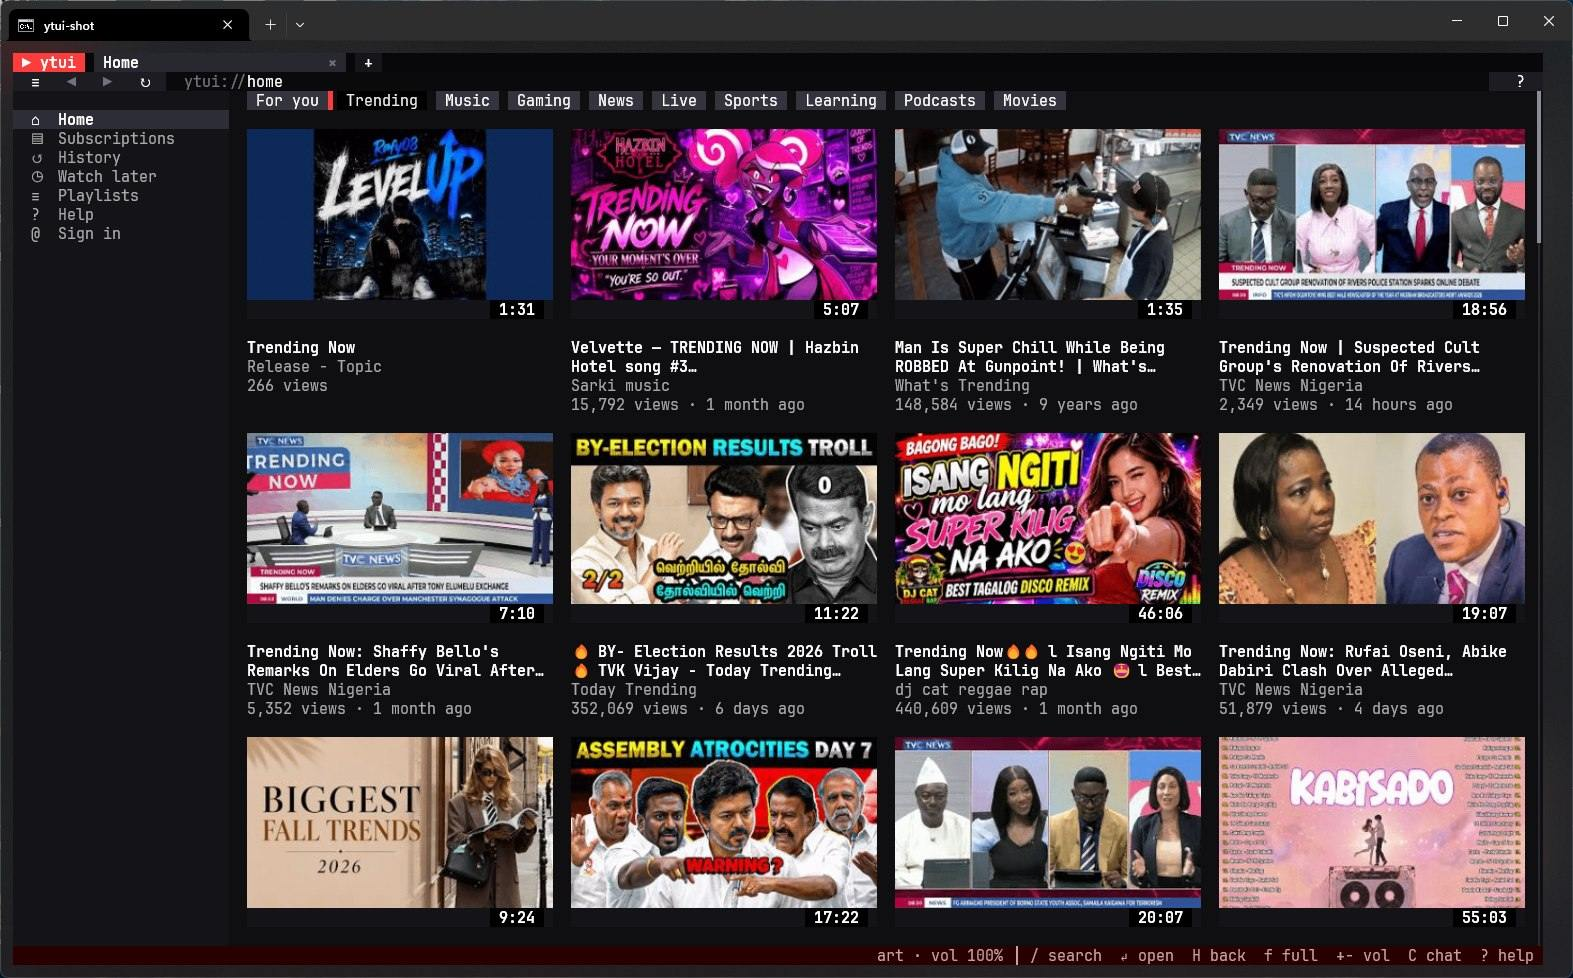
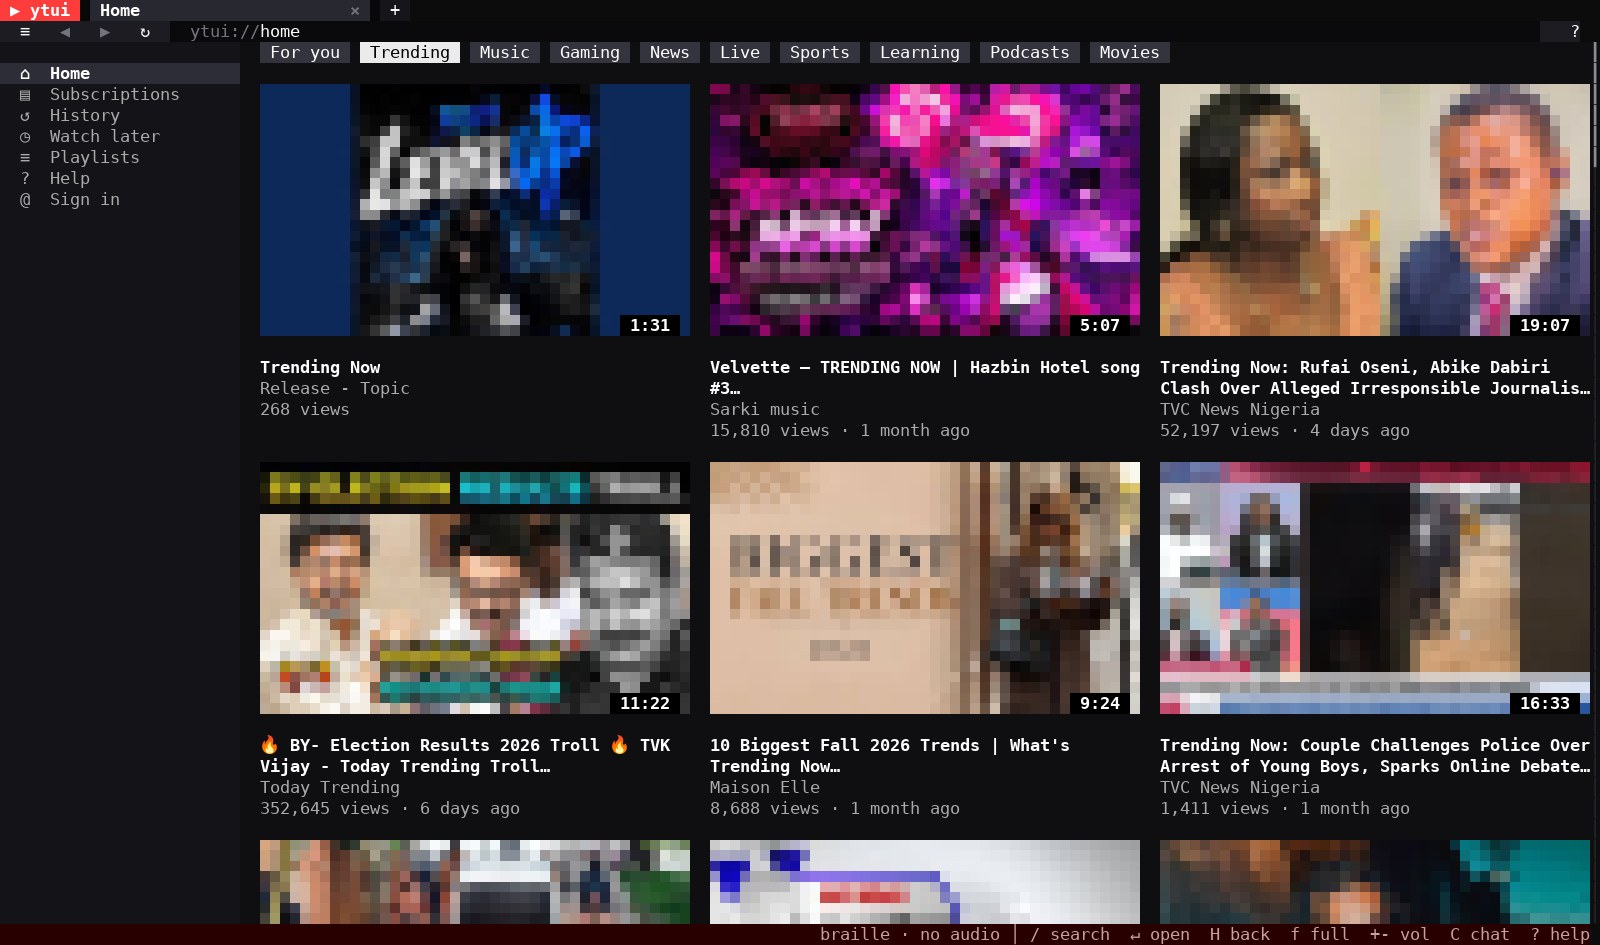
New screenshots: Home, braille, glow and the look panel
Taken from the running app in a 160x45 terminal (signed out, Big Buck Bunny
for the video shots). The sixel and native-window shots are gone with those
features. The look panel's hint is shortened so it fits the panel.

diff --git a/src/app.rs b/src/app.rs
@@ -1943,7 +1943,7 @@ impl App {
             }
             self.geo.look.push((row, slider, i));
         }
-        let hint = "↑↓ choose · ←→ adjust · click/drag · o close";
+        let hint = "↑↓ choose · ←→ adjust · drag · o close";
         buf.set_string(r.x + 2, r.y + h - 2, page::trunc(hint, w as usize - 4), Style::default().fg(DIM).bg(bg));
     }
 
